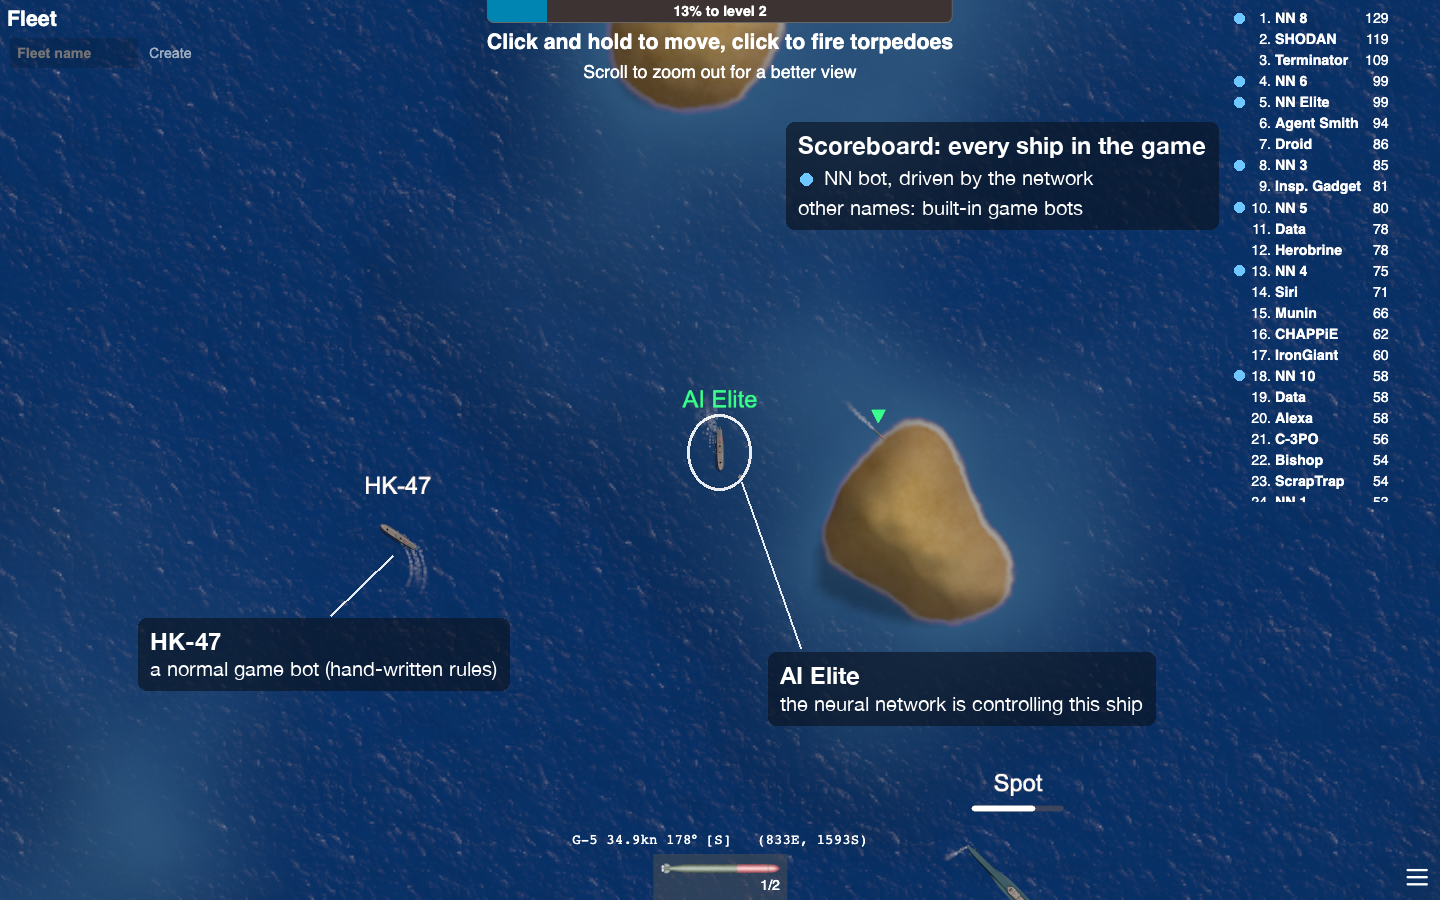
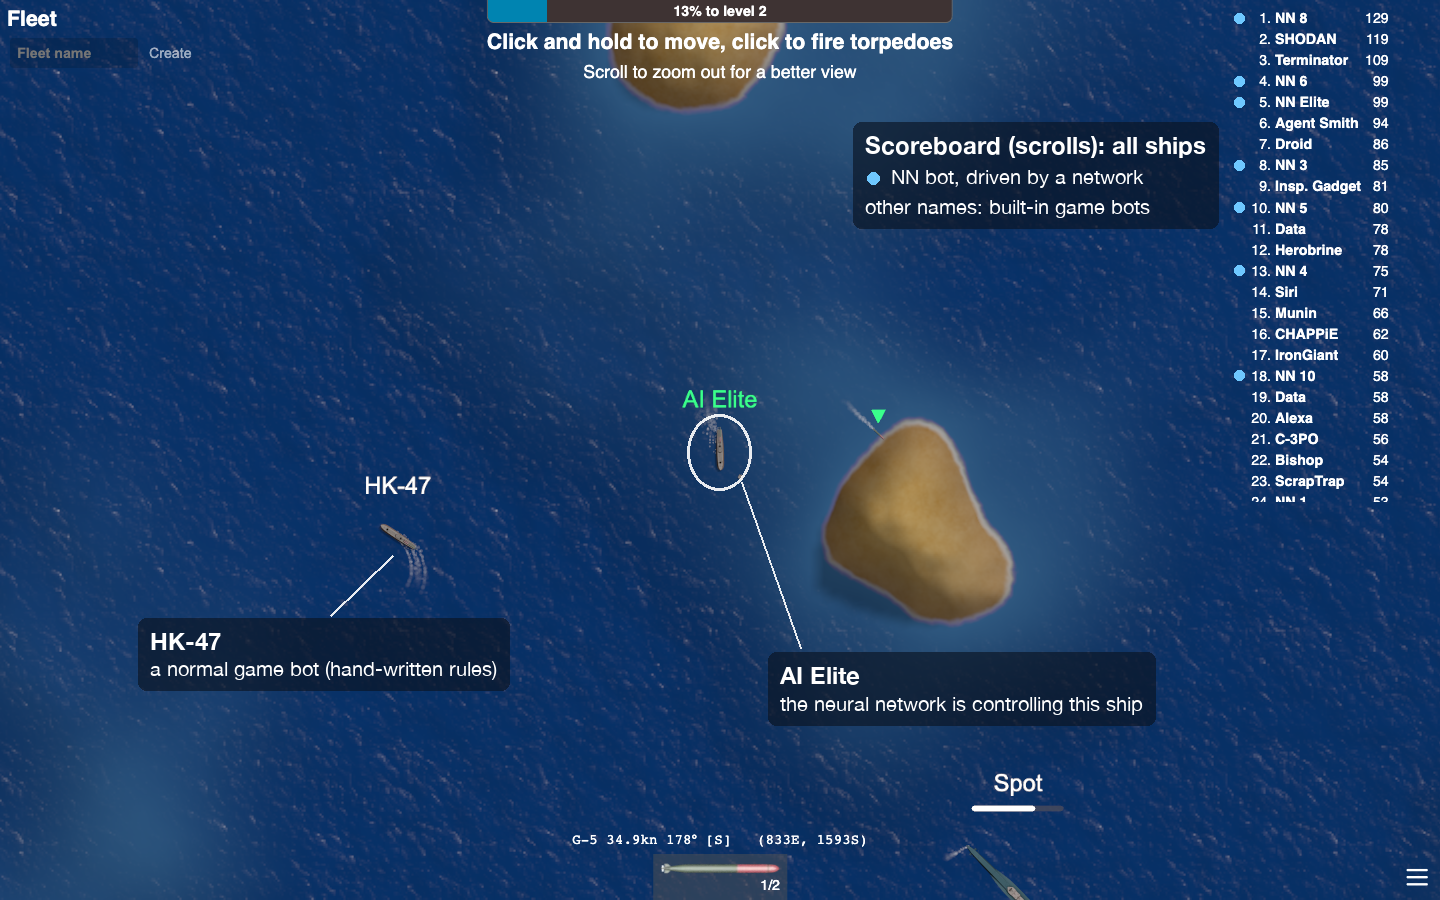
README: one name per model, plainer labels, scoreboard metric explained
Applies a readability review: results summary in What I built, a table for
the measured skills, fewer bold lead-ins, and the step-3 card in the pipeline
figure no longer looks like it beats the pts/min numbers.

Changed region(s): [[0.5312, 0.1244, 0.8438, 0.28]]

diff --git a/agent/plot_readme.py b/agent/plot_readme.py
@@ -147,7 +147,7 @@ def overview(t: dict[str, str]) -> Svg:
     # The game server.
     s.rect(cx - 150, 14, 300, 54)
     s.text(cx, 37, "Mk48 game server", 15, 600, anchor="middle")
-    s.text(cx, 56, "local copy · real rules and physics", 12.5, fill="muted", anchor="middle")
+    s.text(cx, 56, "local copy · unchanged game rules", 12.5, fill="muted", anchor="middle")
 
     # State goes down; screenshots don't.
     s.arrow([(cx, 68), (cx, 110)])
@@ -217,44 +217,44 @@ def overview(t: dict[str, str]) -> Svg:
 def training_pipeline(t: dict[str, str]) -> Svg:
     e = evals()
     score = {k: e[k]["score"][0] for k, _ in STANDARD}
-    W, H = 940, 360
+    W, H = 940, 372
     s = Svg(W, H, t, "Training: built-in bot as teacher, imitation learning, PPO, tougher opponents and new skills")
-    bw, gap, y0, bh = 200, 36, 14, 246
+    bw, gap, y0, bh = 200, 36, 14, 258
     stages = [
         dict(kicker="TEACHER", title="Built-in Mk48 bot", method="hand-written rules",
              lines=["ships with the game", "(server/src/bot.rs)", "steers, aims and fires", "by fixed rules"],
-             value=f"{score['built-in bot']:.1f} pts/min", value_note="standard test",
+             value=f"{score['built-in bot']:.1f} pts/min", metric="standard test", value_note="",
              becomes="the normal game bots"),
         dict(kicker="STEP 1", title="Imitation learning", method="DAgger",
              lines=["the network drives;", "the bot labels what it", "would do in each moment", "10 rounds · 640k labels"],
-             value=f"{score['imitation, transformer + 7 weapons']:.1f} pts/min", value_note="standard test",
+             value=f"{score['imitation, transformer + 7 weapons']:.1f} pts/min", metric="standard test", value_note="",
              becomes="NN 1, NN 2, … in the game"),
         dict(kicker="STEP 2", title="Reinforcement learning", method="PPO + rewards",
              lines=["+ score, damage, kills", "− hits taken, sinking", "kept close to step 1 at first",
                     "~17M decisions"],
-             value=f"{score['elite 15M + guard (final)']:.1f} pts/min", value_note="standard test",
+             value=f"{score['elite 15M + guard (final)']:.1f} pts/min", metric="standard test", value_note="",
              becomes="Elite 15M (results chart)"),
         dict(kicker="STEP 3", title="Tougher opponents", method="and new skills (PPO)",
-             lines=["copies of itself as rivals", "every ship type", "reward: protect the lead",
-                    "lessons: dive, SAM, decoy", "+3M decisions"],
-             value=f"{board_rank('elite_v2b_at_3M_confirm_'):.0%} avg. place",
-             value_note=f"scoreboard (was {board_rank('elite_15M_before_'):.0%})",
+             lines=["copies of itself as rivals", "every ship type", "reward counts points lost",
+                    "examples: dive, SAM, decoy", "+3M decisions"],
+             value=f"{board_rank('elite_v2b_at_3M_confirm_'):.0%} avg. place", metric="scoreboard test (other metric)",
+             value_note=f"Elite 15M: {board_rank('elite_15M_before_'):.0%}",
              becomes="NN Elite in the game"),
     ]
     x0 = (W - 4 * bw - 3 * gap) / 2
     for i, st in enumerate(stages):
         x = x0 + i * (bw + gap)
         learned = i > 0
-        s.rect(x, y0, bw, bh, fill="accent_box" if i == 3 else "box", stroke="accent" if i == 3 else "line",
-               width=1.5 if i == 3 else 1)
+        s.rect(x, y0, bw, bh)
         s.text(x + 16, y0 + 24, st["kicker"], 11.5, 600, fill="accent" if learned else "muted", letter_spacing="0.8")
         s.text(x + 16, y0 + 46, st["title"], 15, 600)
         s.text(x + 16, y0 + 65, st["method"], 13, fill="accent" if learned else "muted")
         for j, line in enumerate(st["lines"]):
             s.text(x + 16, y0 + 92 + j * 18, line, 12.5)
         s.line(x + 16, y0 + 190, x + bw - 16, y0 + 190)
-        s.text(x + 16, y0 + 214, st["value"], 16, 600)
-        s.text(x + 16, y0 + 233, st["value_note"], 12, fill="muted")
+        s.text(x + 16, y0 + 210, st["metric"], 12, fill="muted")
+        s.text(x + 16, y0 + 232, st["value"], 16, 600)
+        s.text(x + 16, y0 + 249, st["value_note"], 12, fill="muted")
         if i < 3:
             ym = y0 + 112
             s.arrow([(x + bw + 4, ym), (x + bw + gap - 4, ym)])
@@ -390,7 +390,7 @@ def gameplay_annotated() -> None:
     nn_rows = [18, 81, 102, 165, 207, 270, 375]  # NN 8, NN 6, NN Elite, NN 3, NN 5, NN 4, NN 10
     for y in nn_rows:
         draw.ellipse((1234, y - 5, 1244, y + 5), fill=blue)
-    label((1206, 130), ["Scoreboard: every ship in the game", "NN bot, driven by the network",
+    label((1206, 130), ["Scoreboard (scrolls): all ships", "NN bot, driven by a network",
                         "other names: built-in game bots"], anchor="ra", dot_line=1)
     img.save(OUT / "gameplay_annotated.png", optimize=True)
 

diff --git a/README.md b/README.md
@@ -1,26 +1,28 @@
 # Teaching a Neural Network to Play Mk48
 
 I modified a local copy of the open-source naval game [Mk48.io](https://github.com/SoftbearStudios/mk48) so that
-ships controlled by a neural network could train in it and then play in the real game. The network reads the game
-state as numbers. It never sees the screen.
+ships controlled by a neural network could train in it and then play in the real game. The network gets the game
+state from the server as 1,201 numbers, not screenshots.
 
 ![The game running locally, with labels for the network-controlled ship, a built-in bot and the scoreboard](agent/figures/gameplay_annotated.png)
 
-The game running on my machine. The ship in the centre is a player I named `AI Elite`: the server hands players
-with that name to the elite network, so the browser only shows what the network is doing. On the scoreboard,
-NN 1, NN 2, … and NN Elite are bots driven by the network. Every other name is one of the game's built-in bots.
+The game running on my machine. I joined as `AI Elite`, so the server gave control of my ship (centre) to my final
+model, NN Elite, and the browser just shows what it does. On the scoreboard, NN 1, NN 2, … and NN Elite are bots
+driven by networks. Every other name is one of the game's built-in bots.
 
 ## What I built
 
 - A headless training mode for the game server: the same world simulation with no graphics, networking or
-  real-time clock (`server/src/train.rs`). The elite's 15M training decisions took about 4 hours; one ship
+  real-time clock (`server/src/train.rs`). The main PPO run (15M decisions) took about 4 hours; one ship
   playing in real time, at 5 decisions per second, would need about 35 days.
 - A transformer policy (~880k weights, PyTorch) trained in three steps: copying the built-in bot,
   reinforcement learning with PPO, then fine-tuning against copies of itself (`agent/`).
 - NN bots in the playable game. The server can hand any bot, or any player whose name starts with `AI`, to the
-  network (`server/src/nn_bots.rs`). Those ships play under the same rules as human players.
-- An evaluation harness that drops a model into fresh games against the built-in bots and records score, kills,
-  deaths and scoreboard position (`agent/evaluate.py`, `agent/pressure_test.py`).
+  network (`server/src/nn_bots.rs`). They score and respawn under player rules and act through the commands a
+  player sends.
+- An evaluation harness that drops a model into fresh games against the built-in bots (`agent/evaluate.py`,
+  `agent/pressure_test.py`). In it, the model after step 2 scores 2.1× the built-in bot's points per minute
+  and is sunk half as often.
 
 Everything runs locally. Nothing in this repository connects to, or plays on, the public mk48.io servers.
 
@@ -37,10 +39,7 @@ barrels, oil platforms) and a 15 × 15 grid of land around it. Each object becom
 transformer, which compares the objects with each other, for example to decide which enemy to aim at. The
 network outputs one choice per control: heading, throttle, which object to target (or none), whether to fire
 and with which weapon, whether to dive, and whether sonar/radar is on. The server applies that as an ordinary
-player command.
-
-There are no images anywhere in the input. The only convolution in the model runs over the 15 × 15 land grid,
-which comes from the map data.
+player command. The only convolution in the model runs over the 15 × 15 land grid, which is built from map data.
 
 ## How it learned
 
@@ -62,11 +61,11 @@ complete game, so I used it as the teacher.
    keeps it close to the imitation policy at first; an earlier run without it drifted away from what it had
    copied and got worse. The final run, Elite 15M, also had a salvo action and frozen imitation bots as
    opponents.
-3. **Tougher opponents and new skills.** Elite 15M did well in tests but sat lower on the real scoreboard, where
-   sinking wipes about 40% of your score. I fine-tuned it for 3M more decisions against copies of itself, in
-   every ship type, with a reward that charges for the points a death actually costs, plus small imitation
-   "lessons" for moves PPO almost never tried: diving, firing a SAM at an incoming missile, launching a decoy at
-   a torpedo. The result drives NN Elite in the game.
+3. **Tougher opponents and new skills.** In the playable game what shows is the live scoreboard, where a death
+   wipes about 40% of your score, and there Elite 15M averaged 78%. I fine-tuned it for 3M more decisions against
+   copies of itself, in every ship type, with a reward that charges for the points a death actually costs. An
+   extra imitation loss on scripted examples covered moves PPO almost never tried: diving, firing a SAM at an
+   incoming missile, launching a decoy at a torpedo. The result is NN Elite, the model in the game.
 
 The reward is only used for training. The results below use the game's own score or the scoreboard position.
 
@@ -77,8 +76,9 @@ The reward is only used for training. The results below use the game's own score
   <img src="agent/figures/results.svg" width="760" alt="Game score per minute: random 3.9, built-in bot 26.0, imitation 33.5, built-in bot through the network's controls 49.4, Elite 15M 55.0. Ships sunk per minute: 0.11, 0.30, 0.49, 0.81. Times sunk per minute: 0.08, 0.16, 0.11, 0.04.">
 </picture>
 
-Each model plays fresh games with 2 test ships and 32 built-in bots per game, for 60 game-minutes, in 8 separate
-games (`agent/evaluate.py`; raw numbers in [`agent/results/evals.json`](agent/results/evals.json)).
+Two models appear below: Elite 15M (the end of step 2) and NN Elite (Elite 15M after step 3). Points per
+minute come from the standard test: fresh games with 2 test ships and 32 built-in bots each, 60 game-minutes,
+8 separate games (`agent/evaluate.py`; raw numbers in [`agent/results/evals.json`](agent/results/evals.json)).
 
 Compared with the built-in bot, Elite 15M scored 2.1× as many points per minute (55.0 vs 26.0). Over the same
 960 ship-minutes it sank 780 ships against the bot's 102 and was sunk 41 times against 81. That is a
@@ -90,38 +90,43 @@ network's control interface (aim snaps onto the target, and it fires whenever a 
 scores 49.4. Against that version the network's advantage is mostly in combat: 1.7× the kills and 0.4× the
 deaths per minute.
 
-The ship called NN Elite in the game is Elite 15M after step 3. I tested it on the scoreboard instead. In the
-game's setup (NN Elite, 11 other NN bots and 40 built-in bots, 60 minutes, 8 games), its average position went
-from 78% to 85% (100% = first place; two separate runs both gave 85%), and 93% after the first 20 minutes. My target was 90%
-over the whole hour. It misses that because everyone starts at zero and the smallest boats score very little.
+Step 3 targeted scoreboard position, not points per minute, so I measured NN Elite on that, in the game's setup
+(NN Elite, 11 other NN bots and 40 built-in bots, 60 minutes, 8 games). Its average position (100% = first) went
+from 78% to 85%, the same in two separate runs. From minute 20 on it averaged 93%. My target was 90% over the
+whole hour. It misses that because everyone starts at zero and the smallest boats score very little.
 
 All comparisons are against the game's bots, not human players. Repeating the same test has moved a model's score
 by up to 6 points per minute, so I only compare models tested in the same batch when choosing between them.
 
 ## What the network learned, and what I added by hand
 
-Measured with `agent/skills.py` (32 ships of every type, 30 game-minutes), which counts how often each weapon is
-used in the situations it exists for:
+`agent/skills.py` counts how often each weapon is used in the situations it exists for (32 ships of every type,
+30 game-minutes):
 
-- **Diving.** Submarines driven by NN Elite stay submerged 91% of the time, 95% when a threat is near. Elite
-  15M never dived.
-- **SAMs.** It fires an anti-air missile at 63% of the incoming missiles and aircraft it could hit (Elite 15M: 5%).
-- **Decoys.** It launches a decoy at 26% of closing torpedoes and missiles (Elite 15M: never). Diving, SAMs and
-  decoys all needed the step-3 lessons; PPO alone almost never tried them.
-- **A different fight per ship.** The ship type is one of the inputs. In the standard test the Skjold and Buyan
-  missile boats fired 91% missiles, the Montana battleship 82% guns, and the Fletcher destroyer split 64/18/18
-  between torpedoes, guns and depth charges.
-- **Protecting a lead.** After the step-3 reward change, deaths in the scoreboard test fell from 0.087 to 0.040
-  per minute, and from 0.108 to 0.075 per minute against bots set to double aggression.
+| Behaviour | NN Elite | Elite 15M |
+|---|---|---|
+| Submarines submerged (when a threat is near) | 91% (95%) | 0% (0%) |
+| SAM fired at an incoming missile or aircraft in reach | 63% | 5% |
+| Decoy launched at a closing torpedo or missile | 26% | 0% |
+
+Other things the network does on its own:
+
+- Weapon mix by ship type. The ship type is one of the inputs. In the standard test the Skjold and Buyan missile
+  boats fired 91% missiles, the Montana battleship 82% guns, and the Fletcher destroyer split 64/18/18 between
+  torpedoes, guns and depth charges.
+- Fewer deaths. With the step-3 reward, which charges for the points a death wipes, deaths in the scoreboard
+  test fell from 0.087 to 0.040 per minute, and from 0.108 to 0.075 per minute against bots set to double aggression.
 
 Some behaviour is fixed code in `server/src/train.rs`, not the network:
 
-- **Aiming ahead.** The network picks the target and when to fire. The aim point is then moved to where a moving
-  ship will be when the shot arrives. In the same test this gave 18% more damage and 16% more kills.
-- **Collision guard.** If the ship is about to hit land, an oil platform or the map edge, it takes the nearest
-  clear heading. In one test, 81 of 140 deaths were navigation deaths without the guard and 3 with it.
-- **Ship personas.** Each NN ship draws random preferences every life (submarine captain, carrier admiral, …),
-  so NN bots take different upgrade paths. Left to itself, the network always upgraded to surface ships.
+- Lead aim. The network picks the target and when to fire; the aim point is then moved to where a moving ship
+  will be when the shot arrives. For Elite 15M in the standard test, this gave 18% more damage and 16% more
+  kills.
+- Collision guard. If the ship is about to hit land, an oil platform or the map edge, it takes the nearest clear
+  heading. In one test, 81 of 140 deaths were navigation deaths without the guard and 3 with it.
+- Upgrade paths. Each NN ship draws random upgrade preferences every life, so NN bots end up in submarines,
+  carriers and battleships instead of all following one path. Left to itself, the network always upgraded to
+  surface ships.
 
 ## Try it
 

diff --git a/agent/README.md b/agent/README.md
@@ -2,7 +2,7 @@
 
 The Python side of the project: the network, training, evaluation, and the process that drives NN ships in the
 playable game. The [top-level README](../README.md) explains what it does and how well it plays;
-[TECHNICAL.md](TECHNICAL.md) has the full details. This page covers running it and finding your way around.
+[TECHNICAL.md](TECHNICAL.md) has the full details. This page covers running it and what each file does.
 
 ## Running the game with NN bots
 
@@ -29,8 +29,8 @@ Mk48 is a top-down game, so "its view" is the normal game view centred on the sh
 
 Two other setups:
 
-- `./run_game.sh models/elite_v4.pt 12 40 models/elite_v2b_3M.pt`: the regular NN bots use v4, which dives,
-  keeps its sonar off underwater and uses SAMs and decoys more often than NN Elite, but scores less.
+- `./run_game.sh models/elite_v4.pt 12 40 models/elite_v2b_3M.pt`: the regular NN bots use v4, which keeps its
+  sonar off underwater and fires SAMs and decoys more often than NN Elite (94% and 97% of the time), but scores less.
 - `./run_game.sh models/bc_v6.pt 12 40 models/elite_opening.json`: NN Elite uses a separate opening network until
   level 5, then switches to the elite. It does better in the first 10 minutes and the same over an hour.
 
@@ -42,8 +42,8 @@ Two other setups:
 | `models/ppo_v5.pt` | first PPO run from the imitation weights (2M decisions) | starting point of the elite |
 | `models/elite_6M.pt`, `models/elite_15M.pt` | step 2 checkpoints; `elite_15M` is "Elite 15M" in the results chart | comparisons |
 | `models/elite_v2b_3M.pt` | step 3: Elite 15M after 3M more decisions | NN Elite in the game |
-| `models/elite_v4.pt` | a step 3 variant with stronger defensive habits | optional NN-bot style |
-| `models/opening_c.pt`, `models/elite_opening.json` | an opening network, and the recipe that hands over to the elite at level 5 | optional |
+| `models/elite_v4.pt` | a step 3 variant that uses SAMs and decoys more and scores less | optional NN-bot style |
+| `models/opening_c.pt`, `models/elite_opening.json` | an opening network, and the config that hands over to the elite at level 5 | optional |
 
 `bc_v6.pt` and `ppo_v5.pt` predate the salvo action (9 actions instead of 10); the server and `evaluate.py` pad
 their output, so they run as they are.
@@ -52,7 +52,7 @@ their output, so they run as they are.
 
 | File | What it does |
 |---|---|
-| `entity_policy.py` | the network: entity transformer, action heads, step-3 lessons, opening-book recipes |
+| `entity_policy.py` | the network: entity transformer, action heads, the step-3 auxiliary labels, opening configs |
 | `mk48env.py` | vectorised environment around the server's `train` mode; rewards; world restarts |
 | `train_bc_entity.py` | step 1: imitation (DAgger) |
 | `ppo_entity.py` | steps 2 and 3: PPO with a KL anchor, frozen opponents and reward presets |
@@ -67,7 +67,7 @@ their output, so they run as they are.
 | `tests/` | `.venv/bin/python -m pytest -q` |
 
 The game-side changes are in `../server/src/`: `train.rs` (training mode, observation and action encoding,
-collision guard, lead aim, ship personas), `nn_bots.rs` (NN control in the playable server) and `player.rs`
+collision guard, lead aim, per-life upgrade preferences), `nn_bots.rs` (NN control in the playable server) and `player.rs`
 (player rules for NN bots).
 
 ## What didn't work
@@ -80,4 +80,4 @@ collision guard, lead aim, ship personas), `nn_bots.rs` (NN control in the playa
 | Copying the bot's trigger pulls | never learned when to fire, because the bot's trigger is partly random | label the bot's firing solution instead |
 | PPO from the imitation weights with no anchor | it drifted away from what it had copied and got worse | a KL penalty toward the imitation policy, fading over the run |
 | Trusting the network to avoid oil platforms | 68 of 140 deaths in one test were platform crashes | the collision guard |
-| An exploration bonus for diving (step 3, run v2) | submarines dived 99% of the time and stopped attacking | ship ratings steer NN bots away from ships it plays badly |
+| An exploration bonus for diving (step 3, run v2) | submarines dived 99% of the time and stopped attacking: the bonus taught the move, not when to use it | no fix in training; in the game, ship ratings (score per ship) steer NN bots toward ships the network scores well in |
